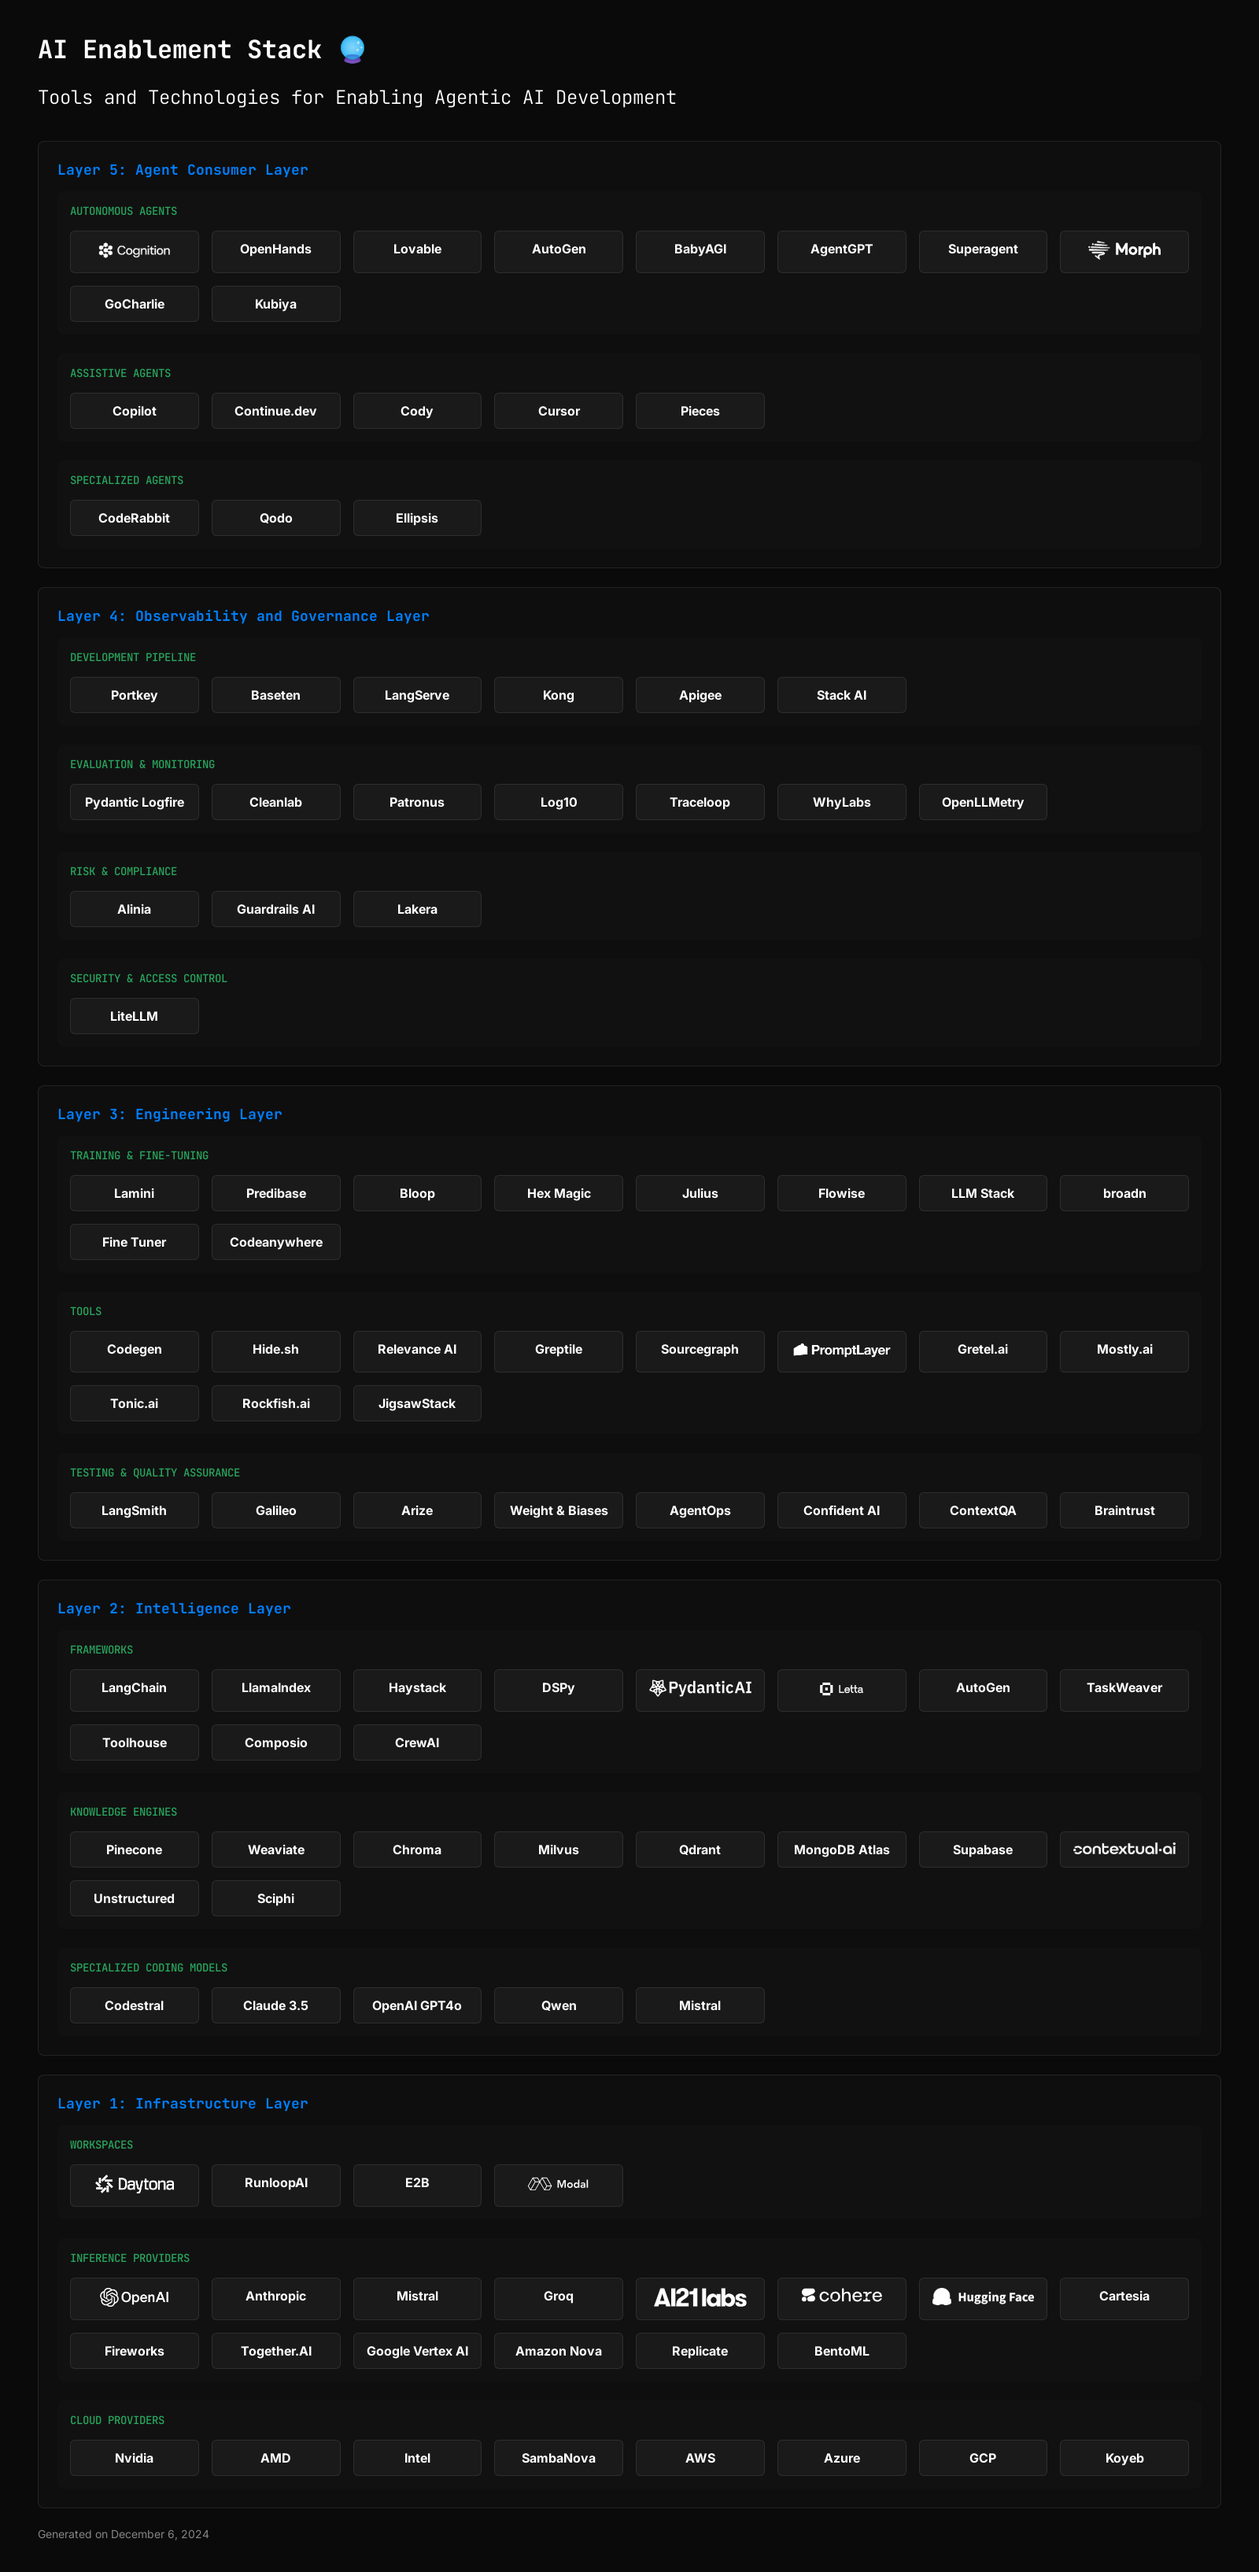
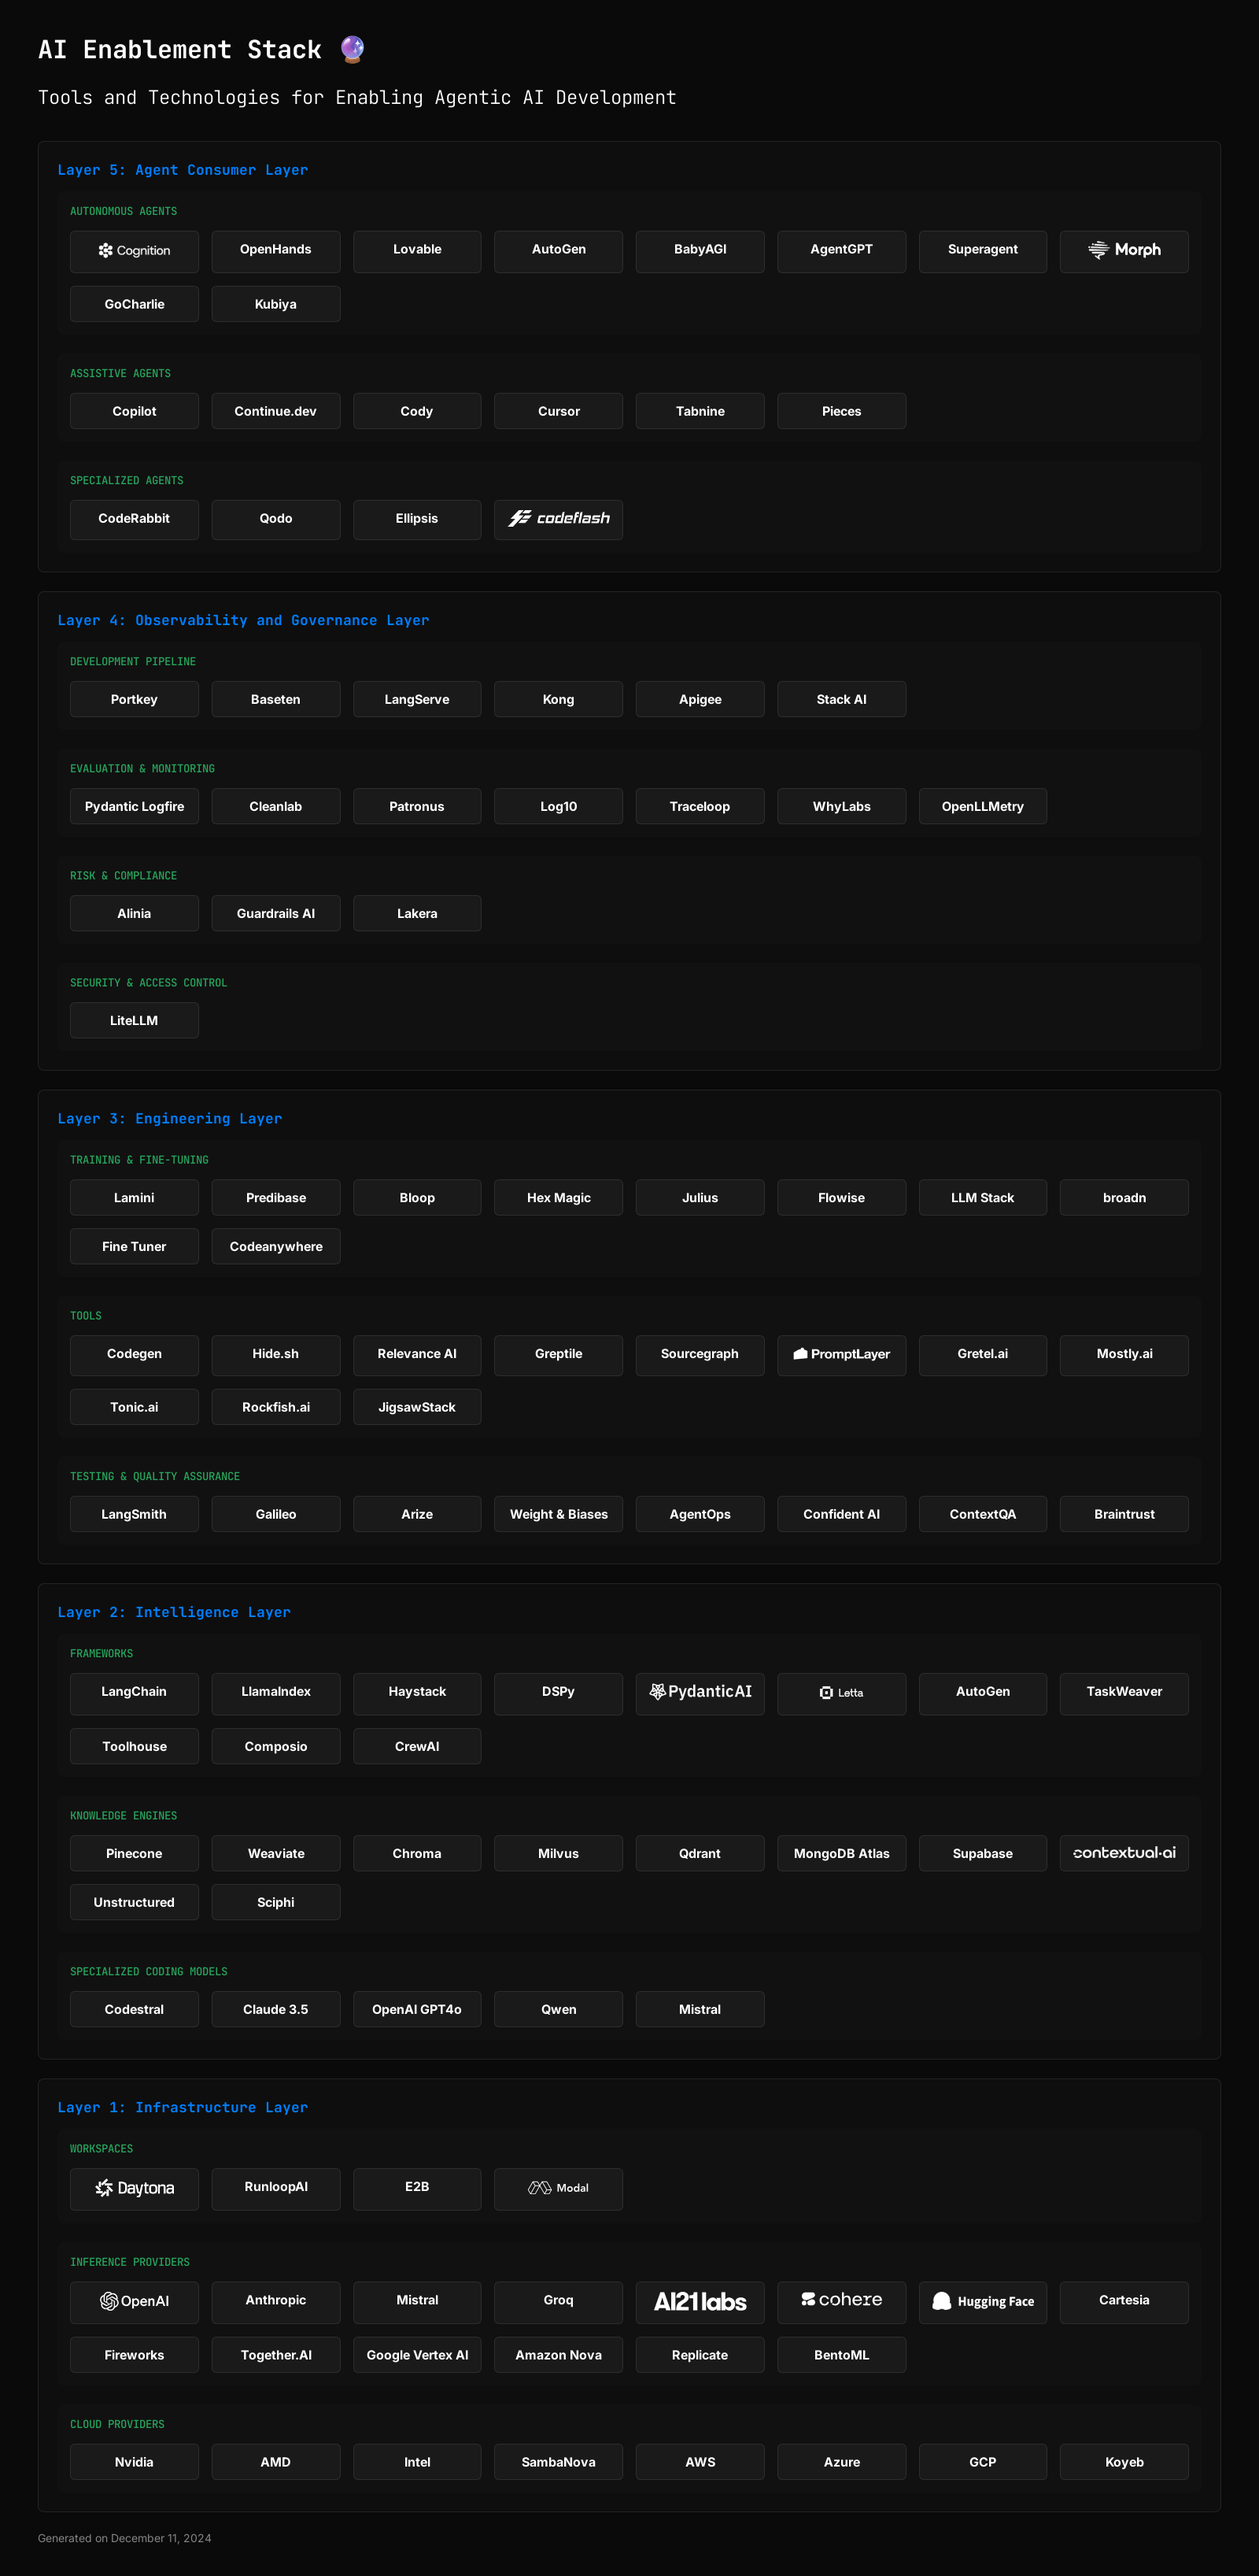
run generate

diff --git a/README.md b/README.md
@@ -227,6 +227,19 @@ Agent Consumer Layer - ASSISTIVE AGENTS
 ##### Links
 </details>
 
+#### [Tabnine](https://www.tabnine.com/)
+<details>
+
+##### Category
+Agent Consumer Layer - ASSISTIVE AGENTS
+
+##### Description
+Tabnine provides a privacy-focused AI code assistant that offers personalized code generation, testing, and review capabilities, featuring bespoke models trained on team codebases, zero data retention, and enterprise-grade security with support for on-premises deployment.
+
+##### Links
+- [https://www.tabnine.com/](https://www.tabnine.com/)
+</details>
+
 #### [Pieces](https://pieces.app/)
 <details>
 
@@ -279,6 +292,21 @@ Ellipsis provides AI-powered code reviews and automated bug fixes for GitHub rep
 
 ##### Links
 - [https://www.ellipsis.dev/](https://www.ellipsis.dev/)
+</details>
+
+#### [Codeflash](https://www.codeflash.ai/)
+<details>
+
+![Codeflash](./assets/codeflash.png)
+
+##### Category
+Agent Consumer Layer - SPECIALIZED AGENTS
+
+##### Description
+Codeflash is a CI tool that keeps your Python code performant by using AI to automatically find the most optimized version of your code through benchmarking and verifying the new code for correctness.
+
+##### Links
+- [https://www.codeflash.ai/](https://www.codeflash.ai/)
 </details>
 
 ## Observability and Governance Layer
